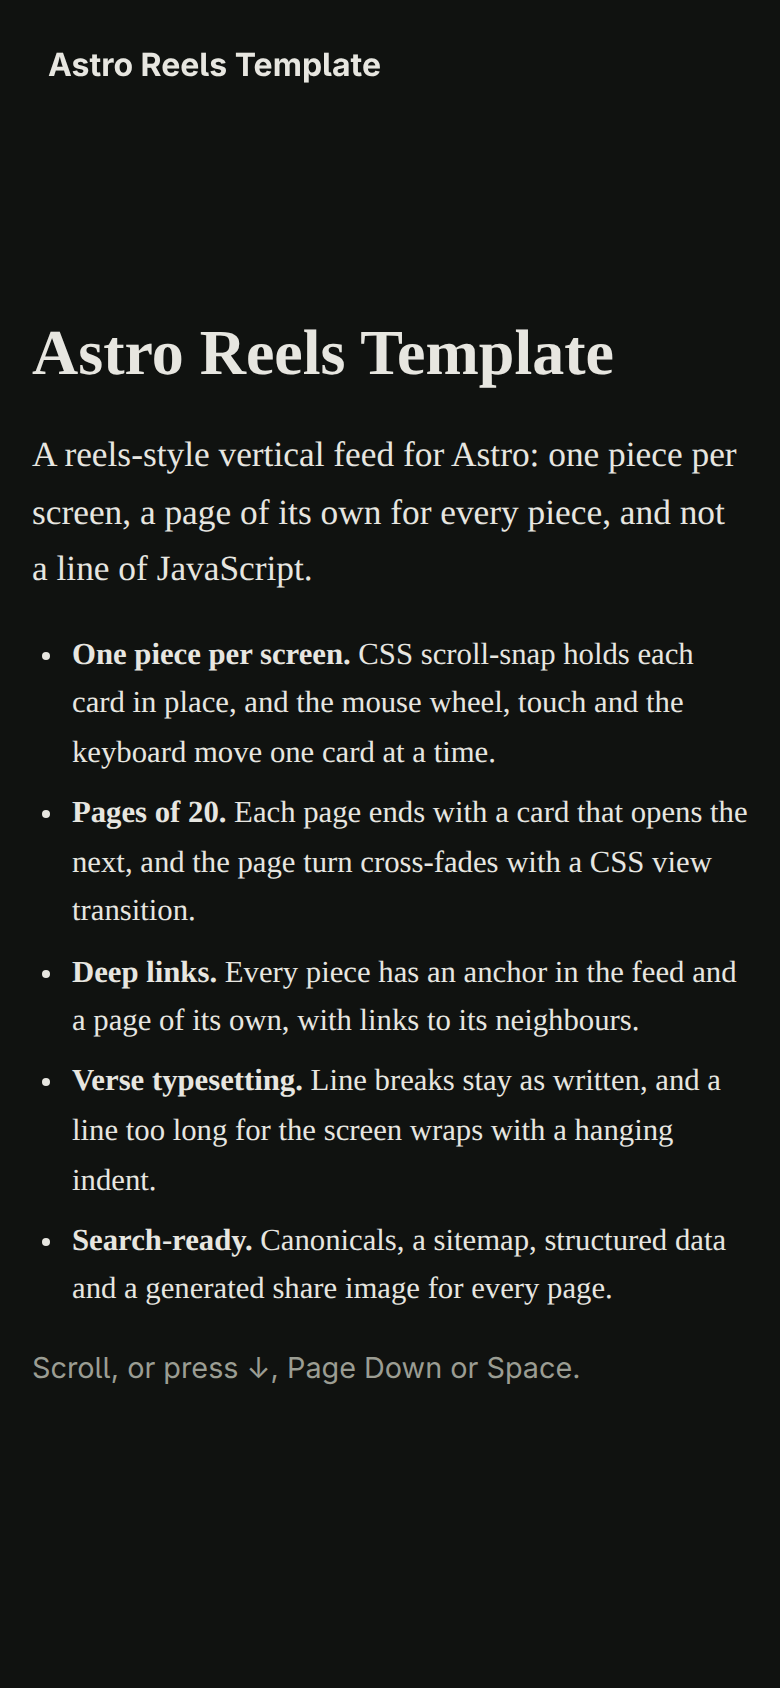
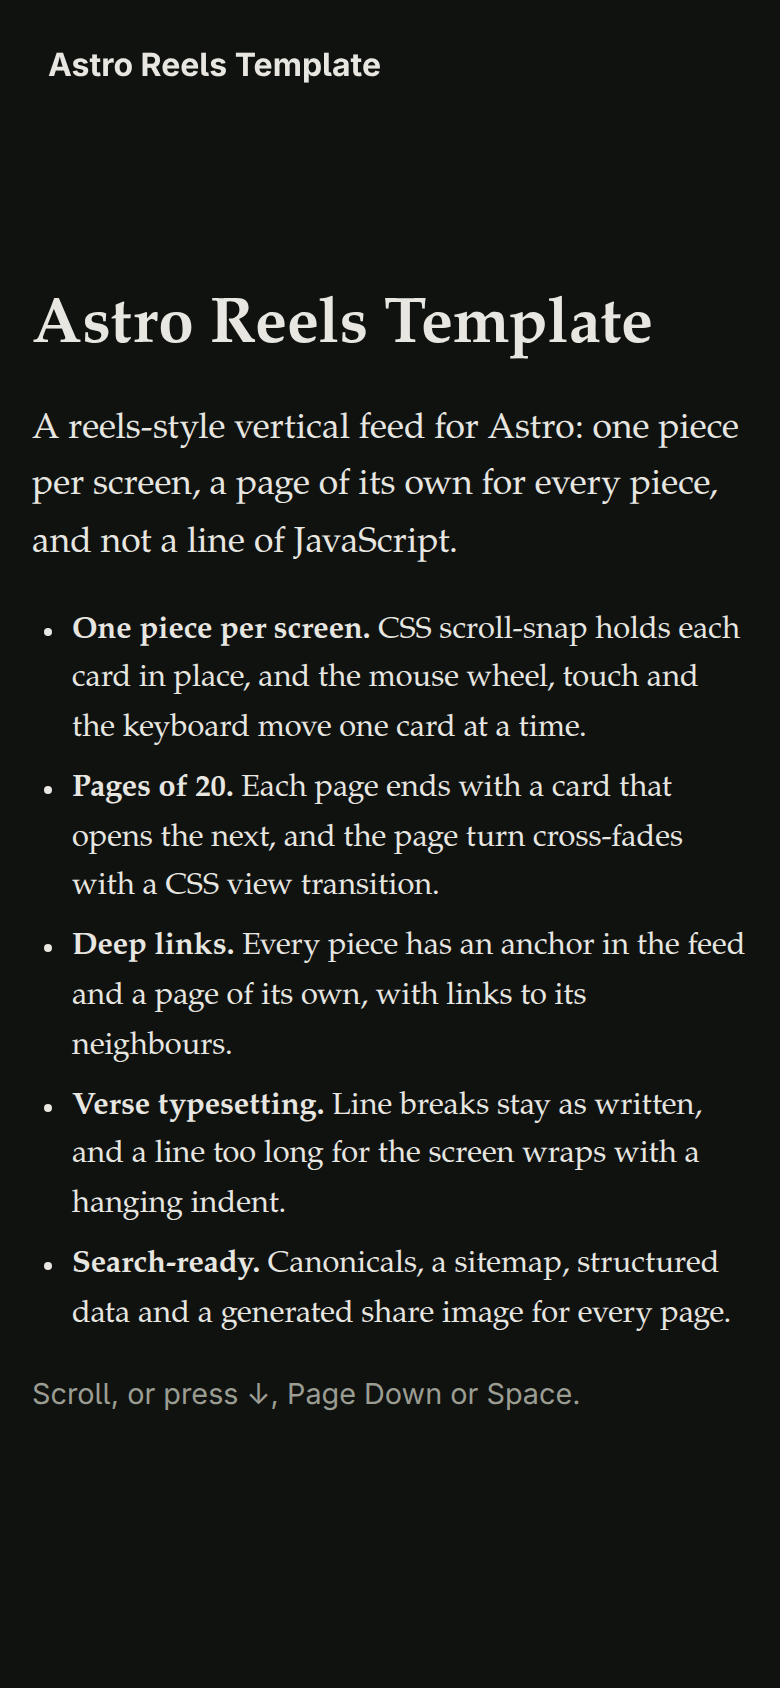
fix(work): render palatino stacks with the urw clone when capturing
Chromium on Linux skips fontconfig's metric clone for a page's own named Palatino families (only the generic serif gets it), so astro-reels-template's Iowan/Palatino Linotype/Palatino stack fell to Chromium's own Times-like default, unlike any real visitor's view. Alias the two named families to local P052 faces before the settle wait so the capture matches what macOS and Windows visitors actually see.

Changed region(s): [[0.0308, 0.154, 0.9538, 0.8318]]

diff --git a/scripts/capture-screenshots.ts b/scripts/capture-screenshots.ts
@@ -3,10 +3,11 @@
 // `src/assets/screenshots/<slug>/<device>-<scheme>.webp`. Runs on demand, like fetch-facts; never during
 // the build: the Astro build stays offline, and a page renders only the variants
 // `src/data/screenshots.ts` finds among the files this script wrote.
-import { spawn } from 'node:child_process';
+import { execFile, spawn } from 'node:child_process';
 import { mkdir, mkdtemp, rm, writeFile } from 'node:fs/promises';
 import { tmpdir } from 'node:os';
 import { join } from 'node:path';
+import { promisify } from 'node:util';
 import sharp from 'sharp';
 import {
   screenshotDevices, screenshotScale, screenshotSchemes, type ScreenshotDevice, type ScreenshotScheme,
@@ -166,6 +167,54 @@ export async function launchBrowser(chromePath: string, userDataDir: string) {
   }
 }
 
+/** URW's P052 is a metric clone of Palatino, built from the same four classic faces. */
+const palatinoFaces = [
+  { weight: 400, style: 'normal', local: 'P052-Roman' },
+  { weight: 700, style: 'normal', local: 'P052-Bold' },
+  { weight: 400, style: 'italic', local: 'P052-Italic' },
+  { weight: 700, style: 'italic', local: 'P052-BoldItalic' },
+] as const;
+
+// Only the two named Palatino families are aliased, never "Iowan Old Style": fontconfig's own Palatino →
+// P052 substitution already covers the generic case, and leaving Iowan alone keeps the capture true to
+// what a Windows visitor (who falls through to Palatino Linotype, not Iowan) actually sees.
+const palatinoFamilies = ['Palatino Linotype', 'Palatino'] as const;
+
+// Chromium on Linux applies fontconfig's Palatino → P052 substitution for the generic "serif" family, but
+// not for a page's own named "Palatino Linotype" or "Palatino", so a page's serif stack falls past both
+// straight to Chromium's built-in default, a Times-like face unlike what any real visitor sees. Aliasing
+// the named families to the local P052 faces makes Chromium pick the same clone fontconfig already
+// resolves for "serif".
+export function palatinoAliasCss(): string {
+  return palatinoFamilies.flatMap(family => palatinoFaces.map(face =>
+    `@font-face { font-family: "${family}"; src: local("${face.local}"); font-weight: ${face.weight}; font-style: ${face.style}; }`,
+  )).join('\n');
+}
+
+const palatinoAliasScript = `(() => {
+  const style = document.createElement('style');
+  style.textContent = ${JSON.stringify(palatinoAliasCss())};
+  document.head.append(style);
+  return true;
+})()`;
+
+/** True only when `fc-match` resolves `P052-Roman` to the `P052` family itself, not a fallback; a pure
+ *  check on the match output, so it's testable without fontconfig installed. */
+export function p052Available(fcMatchOutput: string): boolean {
+  return fcMatchOutput.trim() === 'P052';
+}
+
+/** Fails fast, before any browser is launched, when the URW P052 clone isn't installed: without it this
+ *  script would silently capture Chromium's own fallback serif instead of the Palatino look every real
+ *  visitor gets. */
+export async function checkPalatinoFontInstalled(): Promise<void> {
+  const message = 'P052 (the URW Palatino clone) is not available to fontconfig. '
+    + 'Install the URW base-35 fonts, e.g. gsfonts / fonts-urw-base35.';
+  const stdout = await promisify(execFile)('fc-match', ['-f', '%{family}', 'P052-Roman'])
+    .then(result => result.stdout, () => { throw new Error(message); });
+  if (!p052Available(stdout)) throw new Error(message);
+}
+
 // Resolves once the web fonts are ready and every image that can appear on the first screen has loaded
 // and decoded, or reports what is still pending after `ms`. Lazy images outside the viewport are left
 // out: they are not in the capture, and the browser may never load them.
@@ -254,6 +303,10 @@ export async function captureVariant(endpoint: string, url: string, variant: Cap
     });
     const status = mainDocumentStatus(responses, navigation.result?.loaderId);
     if (status !== undefined && status >= 400) throw new Error(`main document returned HTTP ${status} for ${url}`);
+    // Injected after load but before the settle step below, so the font swap it causes is one of the
+    // things `document.fonts.ready` in `settleScript` waits on, not something applied after the capture
+    // already considered itself settled.
+    await evaluate(ws, pending, counter, palatinoAliasScript, 5_000);
     const settled = await evaluate(ws, pending, counter, settleScript(10_000), 15_000) as { outcome: string; fonts: string; pending: number };
     if (settled.outcome !== 'ready') {
       throw new Error(`page did not settle within 10s (fonts ${settled.fonts}, ${settled.pending} image(s) still loading)`);
@@ -333,6 +386,7 @@ async function captureSite(chromePath: string, dir: URL, slug: string, url: stri
 }
 
 if (import.meta.main) {
+  await checkPalatinoFontInstalled();
   const chromePath = process.env['CHROME_PATH'] ?? 'google-chrome';
   const sources = await readWorkSources(new URL('src/content/work/', root));
   const targets = sources.filter((source): source is typeof source & { site: string } => source.site !== undefined);

diff --git a/tests/unit/capture-screenshots.test.ts b/tests/unit/capture-screenshots.test.ts
@@ -5,8 +5,8 @@ import { join } from 'node:path';
 import { test } from 'node:test';
 import sharp from 'sharp';
 import {
-  captureVariants, checkMasterSize, chromeArgs, devtoolsUrl, identicalPixels, launchBrowser, mainDocumentStatus, masterPath,
-  masterSize, mediaFeatures, send, withTimeout,
+  captureVariants, checkMasterSize, checkPalatinoFontInstalled, chromeArgs, devtoolsUrl, identicalPixels, launchBrowser,
+  mainDocumentStatus, masterPath, masterSize, mediaFeatures, p052Available, palatinoAliasCss, send, withTimeout,
 } from '../../scripts/capture-screenshots.ts';
 
 const solid = (width: number, height: number, r: number) =>
@@ -130,6 +130,31 @@ test('checkMasterSize accepts a capture at exactly twice the viewport and reject
   const [, , phone] = captureVariants();
   await checkMasterSize(await solid(780, 1688, 10), phone!);
   await assert.rejects(checkMasterSize(await solid(390, 844, 10), phone!), /390x844.*expected 780x1688/);
+});
+
+test('palatinoAliasCss aliases both named Palatino families to the four P052 faces, never Iowan Old Style', () => {
+  const css = palatinoAliasCss();
+  assert.ok(css.includes('font-family: "Palatino Linotype"'));
+  assert.ok(css.includes('font-family: "Palatino"'));
+  assert.ok(!css.includes('Iowan'));
+  for (const local of ['P052-Roman', 'P052-Bold', 'P052-Italic', 'P052-BoldItalic']) {
+    assert.ok(css.includes(`local("${local}")`), `missing ${local}`);
+  }
+  assert.ok(/font-family: "Palatino Linotype";\s*src: local\("P052-Bold"\);\s*font-weight: 700;\s*font-style: normal;/.test(css));
+  assert.ok(/font-family: "Palatino";\s*src: local\("P052-Italic"\);\s*font-weight: 400;\s*font-style: italic;/.test(css));
+  // One @font-face per family per face: two families times four faces.
+  assert.equal(css.match(/@font-face/g)?.length, 8);
+});
+
+test('p052Available is true only when fc-match resolves P052-Roman to the P052 family itself', () => {
+  assert.equal(p052Available('P052\n'), true);
+  assert.equal(p052Available('P052'), true);
+  assert.equal(p052Available('Times New Roman\n'), false);
+  assert.equal(p052Available(''), false);
+});
+
+test('checkPalatinoFontInstalled resolves when fc-match resolves P052-Roman to P052 on this machine', async () => {
+  await assert.doesNotReject(checkPalatinoFontInstalled());
 });
 
 test('identicalPixels compares decoded pixels, not encoded bytes', async () => {
